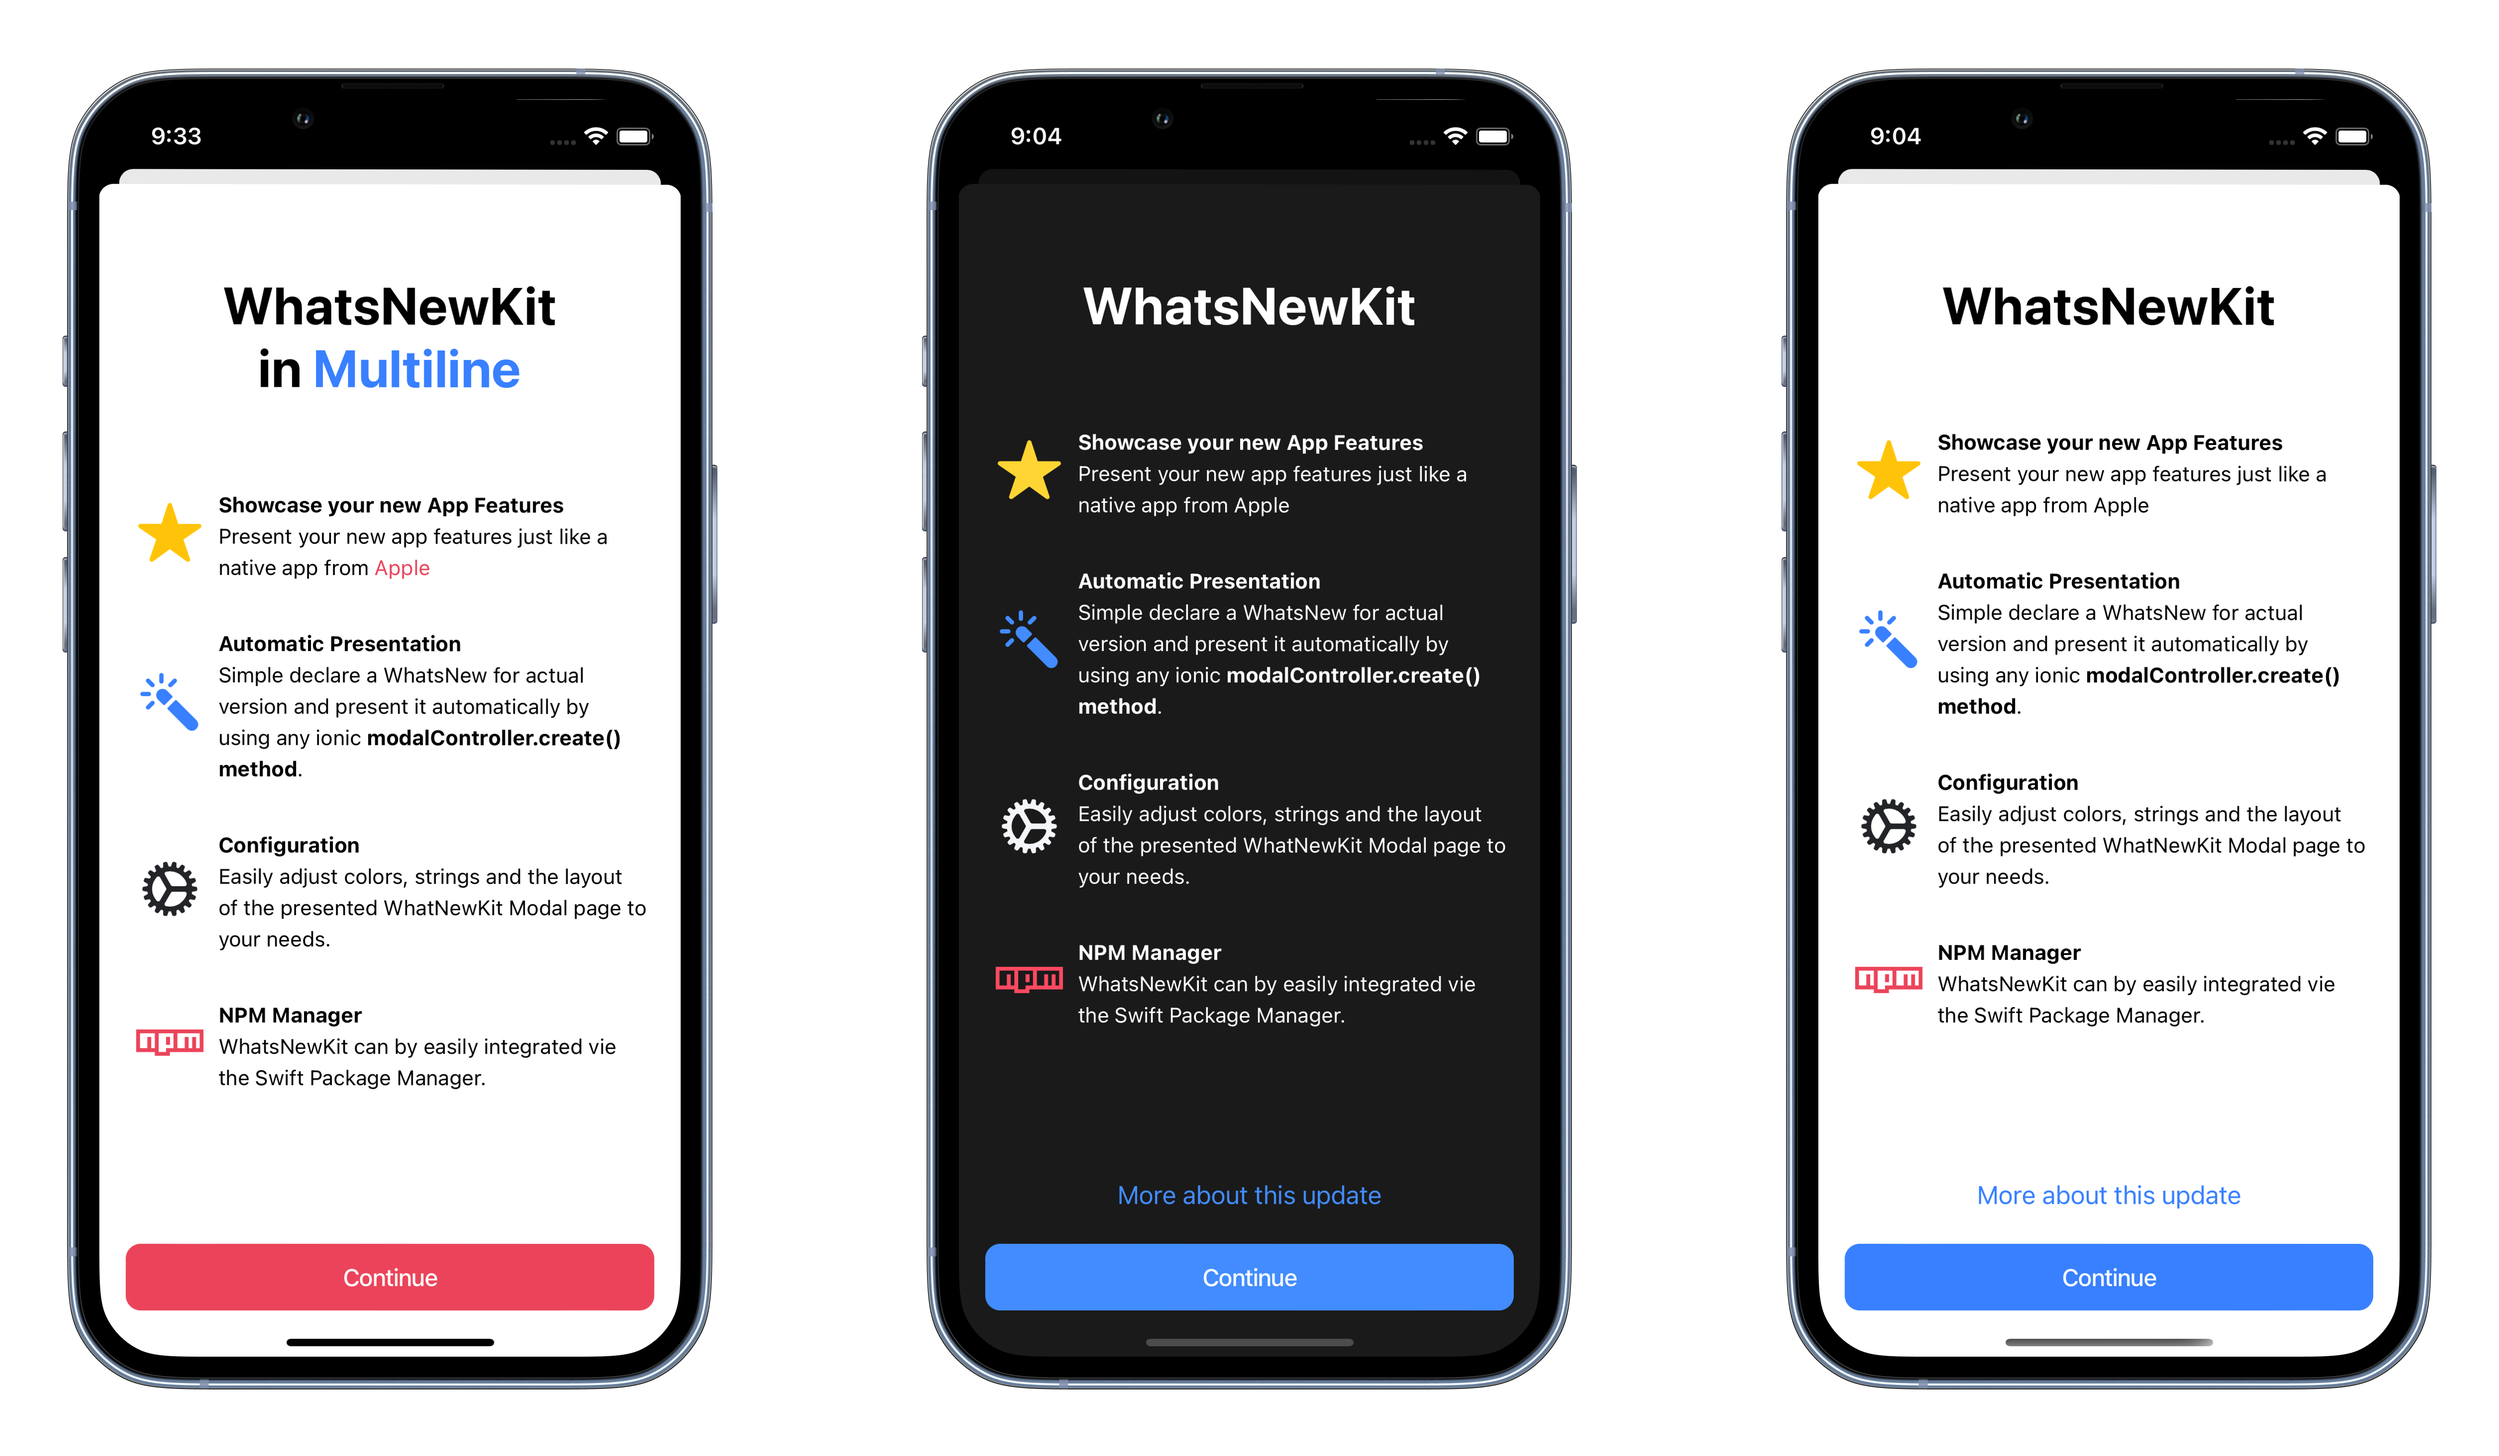
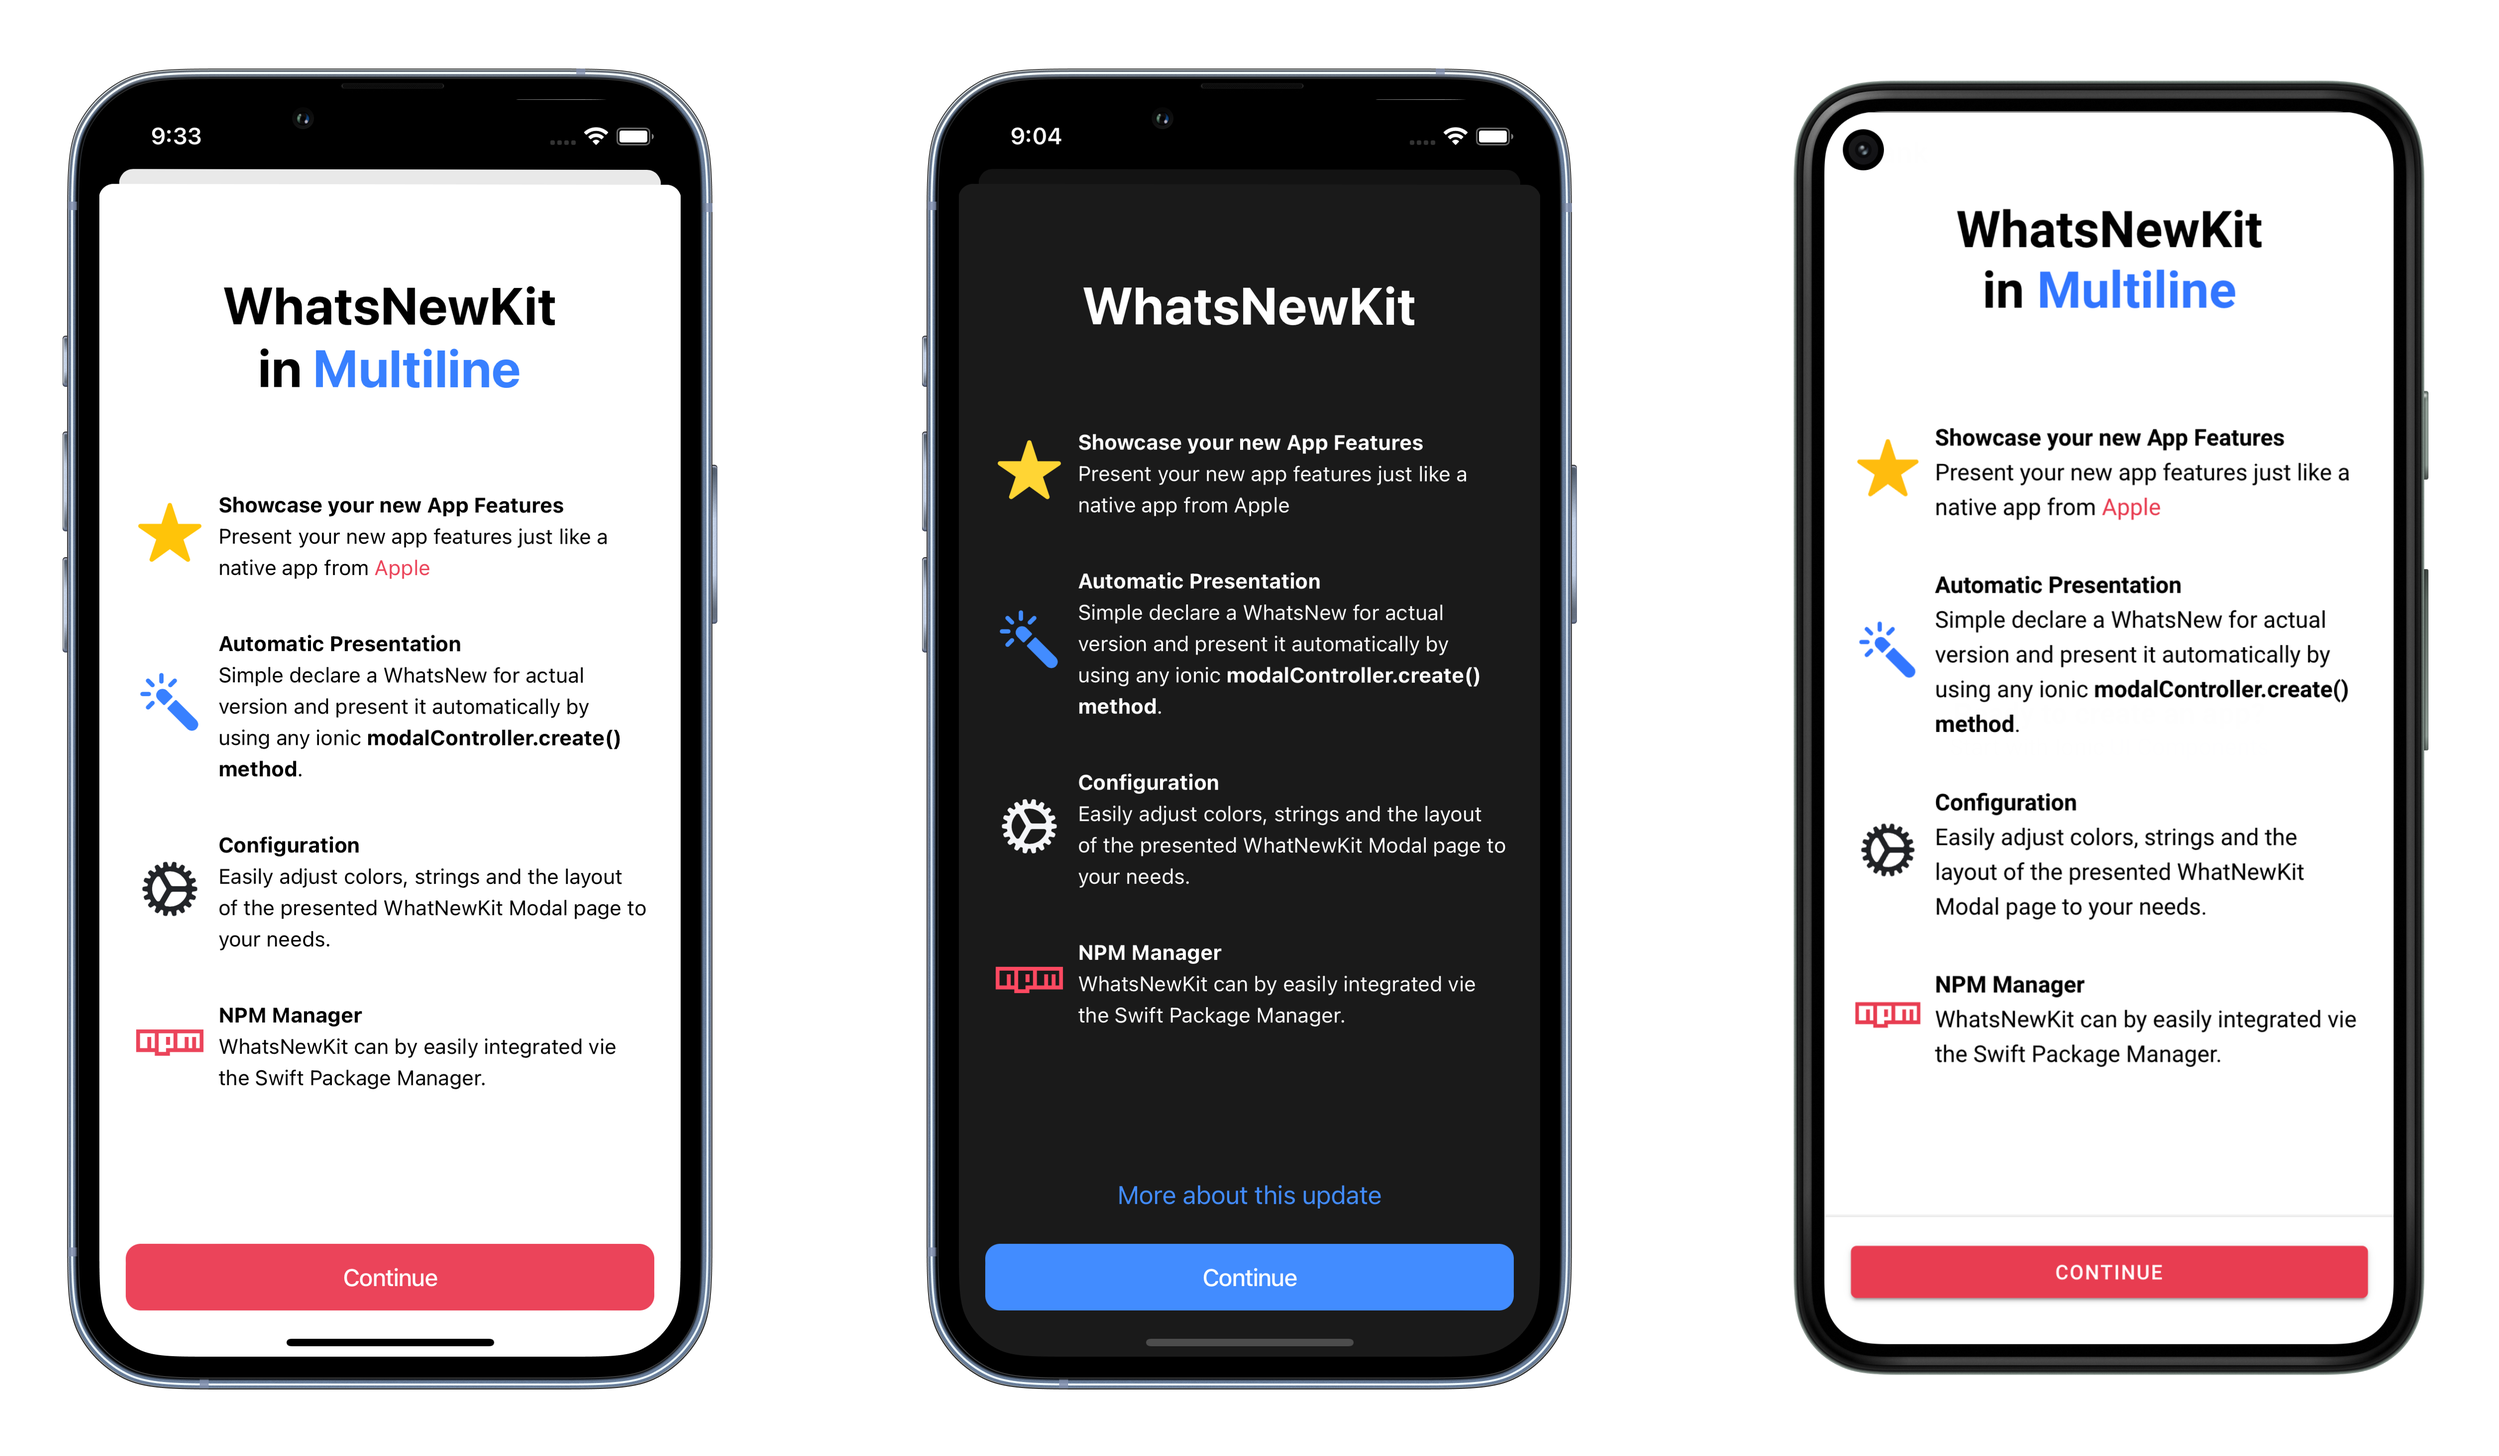
Updating README.md & Android showcase

Changed region(s): [[0.6867, 0.031, 0.9988, 0.9621]]

diff --git a/projects/whats-new-kit/README.md b/projects/whats-new-kit/README.md
@@ -1,6 +1,6 @@
 <br>
 <p align="center">
-    <img src="../../images/logo.png" width="30%" alt="logo">
+    <img src="https://raw.githubusercontent.com/awwwesome-cz/whats-new-kit/master/images/logo.png" width="30%" alt="logo">
 </p>
 
 <h1 align="center">
@@ -17,47 +17,28 @@
     Original Swift Package <a href="https://github.com/SvenTiigi/WhatsNewKit/">SvenTiigi/WhatsNewKit</a>
 </p>
 
-<img align="right" width="315" src="../../images/example.png" alt="Example">
+<p align="center">
+   <a href="projects/whats-new-kit">
+      <img src="https://img.shields.io/badge/Documentation-100%25-green" alt="Documentation">
+   </a>
+   <img src="https://img.shields.io/badge/platform-iOS%20%7C%20macOS%20%7C%20iPadOS%20%7C%20Android%20%7C%20Web%20%7C%20Electron-brightgreen" alt="Platform">
+   <a href="https://awwwesome.cz">
+      <img src="https://img.shields.io/badge/Web-awwwesome.cz-blueviolet" alt="Web">
+   </a>
+</p>
+
+<img align="right" width="315" src="https://raw.githubusercontent.com/awwwesome-cz/whats-new-kit/master/images/example.png" alt="Example">
 
 ```typescript
-export class UpdateWNKService {
+export class HomePage implements OnInit  {
 
-  async whatsNew() {
-    const version = '1.0';
-
-    if (await WhatsNewKitComponent.canShow({
-      appVersion: version,
-      skipPatchVersion: true
-    })) {
-      await this._initUpdateInfoSheet();
-    }
+  constructor(
+    protected updateWNKService: UpdateWNKService,
+  ) {
   }
 
-  private async _initUpdateInfoSheet() {
-    const modal = await this.modalController.create({
-      component: WhatsNewKitComponent,
-      componentProps: {
-        buttons: {
-          continue: {
-            title: 'Continue'
-          }
-        },
-        title: 'WhatsNewKit',
-        features: [
-          {
-            icon: {
-              name: 'star',
-              color: 'warning'
-            },
-            title: 'Showcase your new App Features',
-            text: 'Present your new app features just like a native app from Apple',
-          }
-        ],
-      },
-      backdropDismiss: false,
-      presentingElement: document.getElementById('tabs-outlet')
-    });
-    return await modal.present();
+  ngOnInit() {
+    this.updateWNKService.whatsNew();
   }
 }
 ```
@@ -74,13 +55,14 @@ export class UpdateWNKService {
 
 ## Installation
 
-1. Download package from NPM using `npm i ...`
-2.
+1. Install package from NPM using `npm i @awwwesome-cz/whats-new-kit`.
+2. Create [Custom Service](#automatic-presentation) for automatic presentation.
+3. Call `this.updateWNKService.whatsNew()` on your page.
 
 ## Example
 
 <p align="center">
-    <img width="95%" src="../../images/example-app.png" alt="Example Applications">
+    <img width="95%" src="https://raw.githubusercontent.com/awwwesome-cz/whats-new-kit/master/images/example-app.png" alt="Example Applications">
 </p>
 
 ## Usage

diff --git a/README.md b/README.md
@@ -1,6 +1,6 @@
 <br>
 <p align="center">
-    <img src="images/logo.png" width="30%" alt="logo">
+    <img src="https://raw.githubusercontent.com/awwwesome-cz/whats-new-kit/master/images/logo.png" width="30%" alt="logo">
 </p>
 
 <h1 align="center">
@@ -28,7 +28,21 @@
    </a>
 </p>
 
-<img align="right" width="315" src="images/example.png" alt="Example">
+<img align="right" width="315" src="https://raw.githubusercontent.com/awwwesome-cz/whats-new-kit/master/images/example.png" alt="Example">
+
+```typescript
+export class HomePage implements OnInit  {
+
+  constructor(
+    protected updateWNKService: UpdateWNKService,
+  ) {
+  }
+
+  ngOnInit() {
+    this.updateWNKService.whatsNew();
+  }
+}
+```
 
 ## Features
 
@@ -40,17 +54,20 @@
 - [x] Support any platform: iOS, macOS, iPadOS, Android, Web & Electron 📱 🖥
 - [x] Adjustable content 🔧
 
-See complete documentation in [Project page](projects/whats-new-kit).
+[See complete documentation](projects/whats-new-kit).
 
 ## Installation
 
-1. Download package from NPM using `npm i ...`
-2.
+1. Install package from NPM using `npm i @awwwesome-cz/whats-new-kit`.
+2. Create [Custom Service](projects/whats-new-kit#automatic-presentation) for automatic presentation.
+3. Call `this.updateWNKService.whatsNew()` on your page.
+
+[See complete documentation](projects/whats-new-kit).
 
 ## Example
 
 <p align="center">
-    <img width="95%" src="images/example-app.png" alt="Example Applications">
+    <img width="95%" src="https://raw.githubusercontent.com/awwwesome-cz/whats-new-kit/master/images/example-app.png" alt="Example Applications">
 </p>
 
 ## Development info
